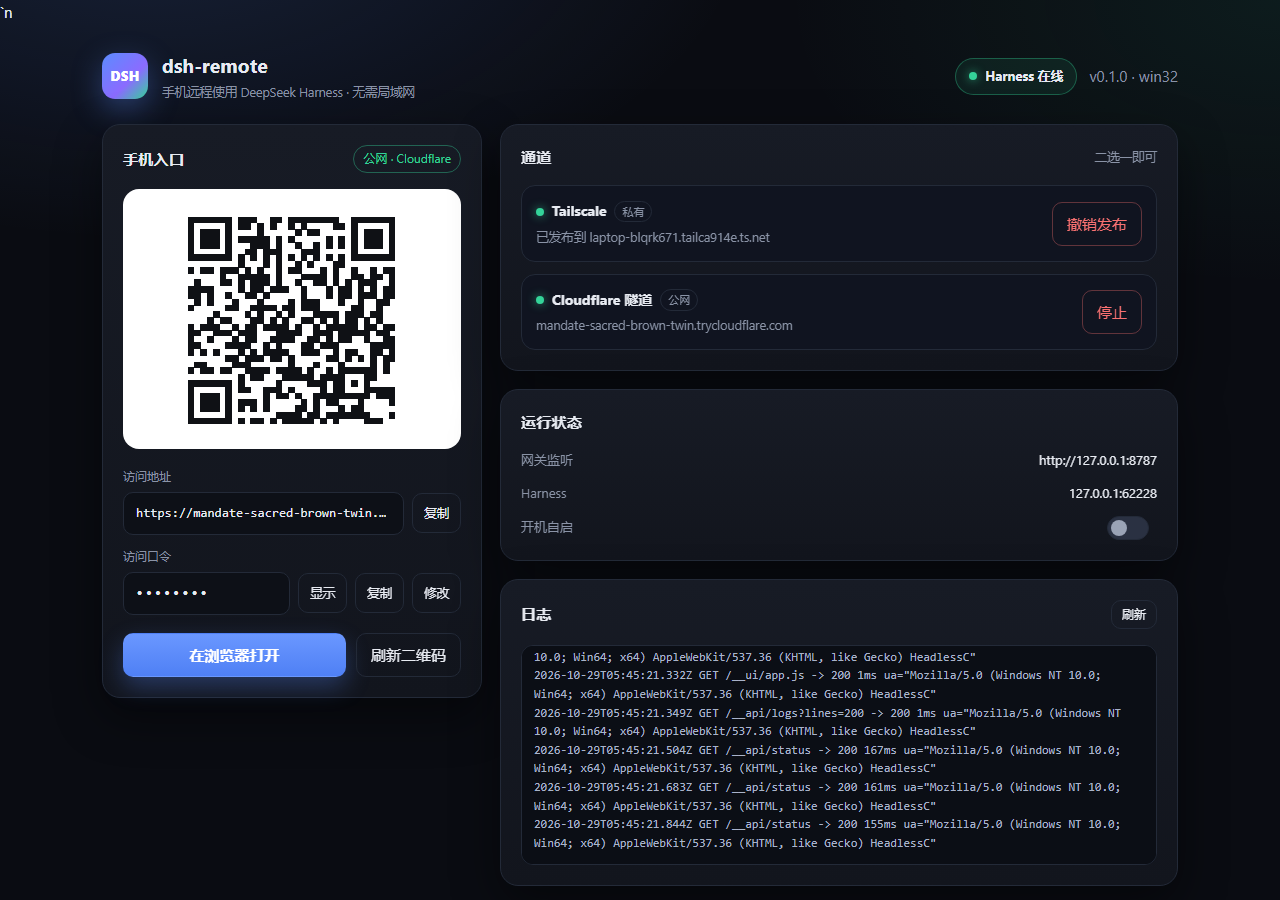
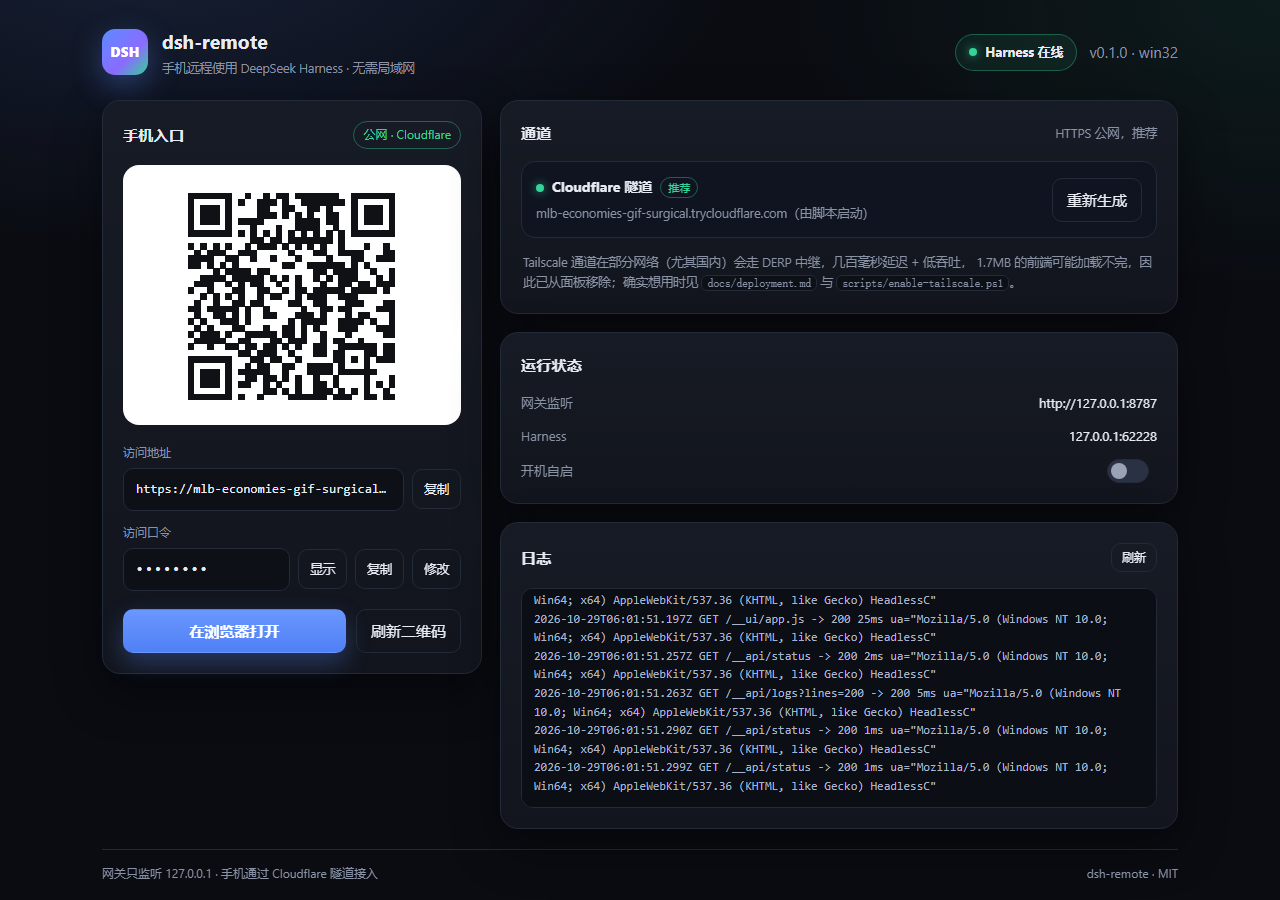
feat: drop Tailscale from the control panel and flag it as not recommended
Tailscale only performs well when both peers establish a direct connection. Where
NAT traversal fails it relays via DERP (300-500 ms, low throughput) and the ~1.7 MB
harness frontend never finishes loading — phones show a blank screen or stay on
'Loading plugins'. This was reproduced on a real network (DERP relay to Nuremberg,
~400 ms RTT).

- control.mjs: remove the tailscale status probe and /__api/tailscale endpoint;
  surface 'external: true' when a tunnel URL was created by the refresh script.
- ui: single Cloudflare transport card (marked recommended) plus an explicit note
  explaining why Tailscale was removed; label an externally started tunnel.
- docs: README(.en), deployment, agent-prompt (zh/en), examples and the installer
  all mark Tailscale as not recommended with the DERP explanation; enable-tailscale.ps1
  keeps working but warns; doctor downgrades Serve to a warning.
- fix a stray literal escape that rendered as a character in the panel, and stop
  the grid from overflowing on long notes.

diff --git a/gateway/ui/app.js b/gateway/ui/app.js
@@ -69,15 +69,11 @@ function publicUrl (status) {
   if (status.tunnel && status.tunnel.url) {
     return status.tunnel.url.endsWith('/') ? status.tunnel.url : status.tunnel.url + '/'
   }
-  if (status.tailscale && status.tailscale.serving && status.tailscale.dnsName) {
-    return `http://${status.tailscale.dnsName}/`
-  }
   return ''
 }
 
 function transportLabel (status) {
   if (status.tunnel && status.tunnel.url) return '公网 · Cloudflare'
-  if (status.tailscale && status.tailscale.serving) return '私有 · Tailscale'
   return '未发布'
 }
 
@@ -160,34 +156,16 @@ function render (status) {
 
   drawQr(url)
 
-  // transports
-  const ts = status.tailscale || {}
-  const tsDot = $('ts-dot')
-  const tsButton = $('ts-btn')
-  tsDot.className = 'dot' + (ts.serving ? ' on' : (!ts.installed ? '' : (!ts.connected ? ' warn' : '')))
-  if (!ts.installed) {
-    $('ts-desc').textContent = '未安装。https://tailscale.com/download'
-    tsButton.textContent = '不可用'
-    tsButton.disabled = true
-  } else if (!ts.connected) {
-    $('ts-desc').textContent = '已安装但未登录，请先登录同一账号'
-    tsButton.textContent = '未登录'
-    tsButton.disabled = true
-  } else {
-    $('ts-desc').textContent = ts.serving ? `已发布到 ${ts.dnsName}` : '只有你账号下的设备能连，不暴露公网'
-    tsButton.textContent = ts.serving ? '撤销发布' : '发布'
-    tsButton.disabled = false
-    tsButton.classList.toggle('danger', Boolean(ts.serving))
-  }
-
+  // transport
   const tunnel = status.tunnel || {}
   const cfDot = $('cf-dot')
   const cfButton = $('cf-btn')
-  cfDot.className = 'dot' + (tunnel.running ? ' on' : (tunnel.starting ? ' warn' : ''))
-  if (tunnel.running && tunnel.url) {
-    $('cf-desc').textContent = tunnel.url.replace('https://', '')
-    cfButton.textContent = '停止'
-    cfButton.classList.add('danger')
+  const tunnelActive = Boolean(tunnel.running || tunnel.external)
+  cfDot.className = 'dot' + (tunnelActive ? ' on' : (tunnel.starting ? ' warn' : ''))
+  if (tunnelActive && tunnel.url) {
+    $('cf-desc').textContent = tunnel.url.replace('https://', '') + (tunnel.external ? '（由脚本启动）' : '')
+    cfButton.textContent = tunnel.running ? '停止' : '重新生成'
+    cfButton.classList.toggle('danger', Boolean(tunnel.running))
     cfButton.disabled = false
   } else if (tunnel.starting) {
     $('cf-desc').textContent = '正在分配地址…'
@@ -195,7 +173,7 @@ function render (status) {
     cfButton.disabled = true
     cfButton.classList.remove('danger')
   } else {
-    $('cf-desc').textContent = 'HTTPS 公网地址，无需账号；地址重启会变'
+    $('cf-desc').textContent = 'HTTPS 公网地址，无需账号；地址在隧道重启后会变'
     cfButton.textContent = '启动'
     cfButton.classList.remove('danger')
     cfButton.disabled = false
@@ -262,24 +240,6 @@ function bindActions () {
   })
 
   $('logs-refresh').addEventListener('click', refreshLogs)
-
-  $('ts-btn').addEventListener('click', async () => {
-    const status = state.status
-    if (!status) return
-    const action = status.tailscale.serving ? 'reset' : 'serve'
-    const button = $('ts-btn')
-    setBusy(button, true)
-    try {
-      const result = await api('/__api/tailscale', { method: 'POST', body: JSON.stringify({ action }) })
-      toast(action === 'serve' ? `已发布：${result.url || '完成'}` : '已撤销发布')
-      await refresh()
-    } catch (error) {
-      toast(error.message)
-    } finally {
-      setBusy(button, false)
-      await refresh()
-    }
-  })
 
   $('cf-btn').addEventListener('click', async () => {
     const status = state.status

diff --git a/gateway/ui/index.html b/gateway/ui/index.html
@@ -4,7 +4,8 @@
   <meta charset="utf-8">
   <meta name="viewport" content="width=device-width, initial-scale=1">
   <title>dsh-remote · 控制台</title>
-  <link rel="icon" href="data:,">`n  <link rel="stylesheet" href="/__ui/style.css">
+  <link rel="icon" href="data:,">
+  <link rel="stylesheet" href="/__ui/style.css">
 </head>
 <body>
   <div class="app">
@@ -58,24 +59,22 @@
         <section class="card">
           <div class="card-head">
             <h2>通道</h2>
-            <span class="muted small">二选一即可</span>
-          </div>
-
-          <div class="transport" id="ts-row">
-            <div class="transport-main">
-              <div class="transport-title"><span class="dot" id="ts-dot"></span><b>Tailscale</b><span class="tag tiny">私有</span></div>
-              <p class="muted small" id="ts-desc">只有你账号下的设备能连，不暴露公网</p>
-            </div>
-            <button class="ghost" id="ts-btn">发布</button>
+            <span class="muted small">HTTPS 公网，推荐</span>
           </div>
 
           <div class="transport" id="cf-row">
             <div class="transport-main">
-              <div class="transport-title"><span class="dot" id="cf-dot"></span><b>Cloudflare 隧道</b><span class="tag tiny">公网</span></div>
-              <p class="muted small" id="cf-desc">HTTPS 公网地址，无需账号；地址重启会变</p>
+              <div class="transport-title"><span class="dot" id="cf-dot"></span><b>Cloudflare 隧道</b><span class="tag tiny on">推荐</span></div>
+              <p class="muted small" id="cf-desc">HTTPS 公网地址，无需账号；地址在隧道重启后会变</p>
             </div>
             <button class="ghost" id="cf-btn">启动</button>
           </div>
+
+          <p class="muted small transport-note">
+            Tailscale 通道在部分网络（尤其国内）会走 DERP 中继，几百毫秒延迟 + 低吞吐，
+            1.7MB 的前端可能加载不完，因此已从面板移除；确实想用时见
+            <code>docs/deployment.md</code> 与 <code>scripts/enable-tailscale.ps1</code>。
+          </p>
         </section>
 
         <section class="card">
@@ -98,7 +97,7 @@
     </main>
 
     <footer class="footer">
-      <span>网关只监听 127.0.0.1 · 手机通过 Tailscale 或隧道接入</span>
+      <span>网关只监听 127.0.0.1 · 手机通过 Cloudflare 隧道接入</span>
       <span class="muted">dsh-remote · MIT</span>
     </footer>
   </div>

diff --git a/gateway/ui/style.css b/gateway/ui/style.css
@@ -55,14 +55,14 @@ html, body {
 .pill.bad i { background: var(--danger); }
 
 /* layout */
-.grid { display: grid; grid-template-columns: 380px 1fr; gap: 18px; align-items: start; }
-.column { display: grid; gap: 18px; }
+.grid { display: grid; grid-template-columns: 380px minmax(0, 1fr); gap: 18px; align-items: start; }
+.column { display: grid; gap: 18px; min-width: 0; }
 @media (max-width: 920px) { .grid { grid-template-columns: 1fr; } }
 
 .card {
   background: linear-gradient(180deg, var(--panel-2), var(--panel));
   border: 1px solid var(--border); border-radius: var(--radius);
-  padding: 20px; box-shadow: var(--shadow);
+  padding: 20px; box-shadow: var(--shadow); min-width: 0;
 }
 .card-head { display: flex; align-items: center; justify-content: space-between; margin-bottom: 16px; }
 .card-head h2 { font-size: 15px; margin: 0; letter-spacing: .3px; }
@@ -127,6 +127,8 @@ button.danger { color: var(--danger); border-color: rgba(248, 113, 113, .35); }
 .transport-title .dot.on { background: var(--success); box-shadow: 0 0 10px rgba(52, 211, 153, .7); }
 .transport-title .dot.warn { background: #f59e0b; }
 .transport p { margin: 4px 0 0; }
+.transport-note { margin: 14px 2px 0; line-height: 1.65; overflow-wrap: anywhere; }
+.transport-note code { background: #0d1017; border: 1px solid var(--border); border-radius: 6px; padding: 1px 5px; font-size: 11.5px; }
 
 /* status list */
 .kv { margin: 0; display: grid; gap: 12px; }

diff --git a/README.en.md b/README.en.md
@@ -20,7 +20,7 @@ and a signed cookie. From a phone you get `401 dsh web authentication required`.
 2. **A zero-dependency local gateway** (`gateway/server.mjs`): you log in with a password, the gateway
    exchanges the launch token for the Harness cookie and reverse-proxies HTTP + WebSocket to `127.0.0.1`,
    rewriting `Host`/`Origin` back to loopback so the Harness browser-trust fence accepts it.
-3. **Any transport that works beyond the LAN**: Tailscale, Cloudflare Tunnel, ngrok, or your own VPS.
+3. **Any transport that works beyond the LAN**: Cloudflare Tunnel, ngrok, or your own VPS (Tailscale is documented but not recommended — see Limitations).
 
 ```mermaid
 flowchart LR
@@ -61,7 +61,7 @@ What the panel does:
 
 - status at a glance: harness online, gateway listener, autostart switch;
 - phone entry: QR code, public URL, access password (reveal / copy / change);
-- transports: publish/revoke Tailscale, start/stop the Cloudflare tunnel and get the new URL;
+- transports: start/stop the Cloudflare tunnel and get the new URL (Tailscale was removed from the panel);
 - logs: the last 200 gateway log lines, so you rarely need a terminal.
 
 > The panel only accepts requests with a loopback Host header; tunneled traffic gets 403 — it
@@ -78,7 +78,7 @@ Clone the repo, then follow docs/agent-prompt.md exactly:
    wait for remote-gw-state.json);
 2) run `node gateway/admin.mjs init` to create the password;
 3) start gateway/server.mjs and confirm /__health returns ok:true;
-4) ask me to choose Tailscale (private) or a Cloudflare tunnel (public), then run the matching
+4) default to a Cloudflare tunnel (public); consider Tailscale only if I explicitly ask for a private
    script from scripts/;
 5) render the phone access page and QR code;
 6) `node gateway/selftest.mjs <password> <url>` must pass 12/12;
@@ -111,11 +111,16 @@ autostart entry.
 
 | Transport | Address | Account | When |
 |---|---|---|---|
-| **Tailscale** (recommended, private) | `http://<machine>.<tailnet>.ts.net/` | Tailscale account (free) | only your own devices, no public exposure |
+| **Tailscale** (⚠ not recommended) | `http://<machine>.<tailnet>.ts.net/` | Tailscale account (free) | most private when direct; **falls back to DERP relay where the frontend may never load** |
 | **Cloudflare quick tunnel** | `https://<random>.trycloudflare.com` | none | instant test; URL changes on restart |
 | **Cloudflare named tunnel** | `https://dsh.example.com` | domain + Cloudflare | stable public URL |
 | **ngrok free domain** | `https://xxx.ngrok-free.app` | ngrok account | stable URL without a domain |
 | **Your VPS + frp/nginx** | your domain | a VPS | fastest, fully self-hosted |
+
+> ⚠ **Tailscale is not the recommended path.** On networks where both peers cannot punch through,
+> traffic is relayed through DERP (300–500 ms, low throughput) and the ~1.7 MB harness frontend never
+> finishes loading — the phone shows a blank screen or stays on "Loading plugins". The control panel no
+> longer offers it; use Cloudflare/ngrok/VPS when in doubt.
 
 Commands for each are in [docs/deployment.md](docs/deployment.md).
 

diff --git a/docs/deployment.md b/docs/deployment.md
@@ -8,7 +8,14 @@
 
 ---
 
-## 1. Tailscale（推荐：私有、不暴露公网）
+## 1. Tailscale（⚠ 不推荐：可能走 DERP 中继）
+
+> **为什么不推荐**：Tailscale 只有在两端能 NAT 打洞直连时才快。打洞失败时会退回 **DERP 中继**
+> （常见是 300–500ms 延迟、吞吐很低），而 Harness 前端约 1.7MB，基本传不完 —— 手机上表现为
+> **白屏 / 一直卡在 Loading plugins**。控制面板已不提供该通道；本项目优先推荐第 2/3/4 节的公网隧道或 VPS。
+>
+> 自检：`tailscale ping <手机IP>`，若输出 `via DERP(...)` 就是中继，不要用这条路。
+> 直连可用（`via 192.168.x.x` / `via 100.x.x.x`）时它依然是最私密的选择。
 
 适合“只有我自己的设备能连”。
 
